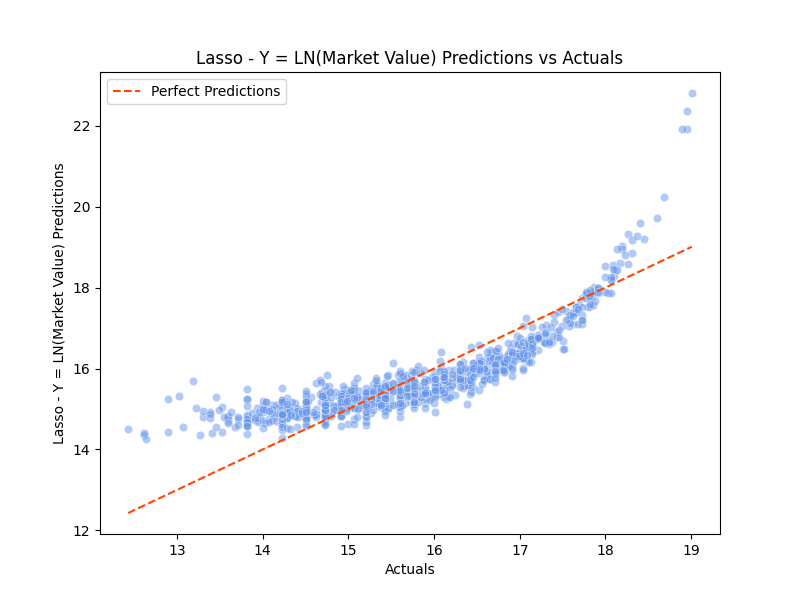
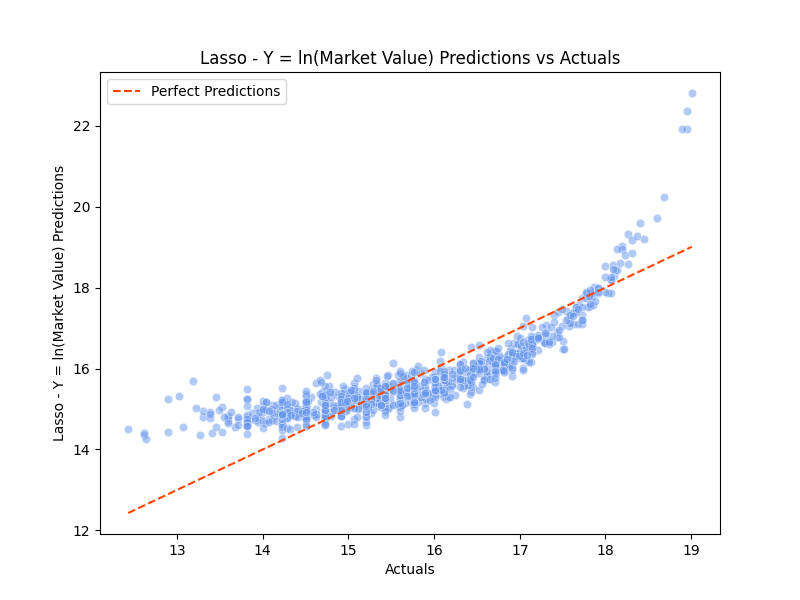
added parameter tuning to the lasso fitting function and removed dummy variables and log mkt val cols. generated visuals and logged errors.

Changed region(s): [[0.25, 0.06, 0.7812, 0.12], [0.0625, 0.27, 0.0938, 0.75]]

diff --git a/predictive_model_fitting.py b/predictive_model_fitting.py
@@ -96,10 +96,10 @@ def standardize_numeric_vars(df):
     # Create a DataFrame from the scaled data:
     scaled_df = pd.DataFrame(scaled_data, columns=df.columns[:first_dummy_loc])
 
-    # Concatenate the scaled_df with the dummy columns:
-    final_scaled_df = pd.concat([scaled_df, df.iloc[:, first_dummy_loc:]], axis=1)
+    # # Concatenate the scaled_df with the dummy columns:
+    # final_scaled_df = pd.concat([scaled_df, df.iloc[:, first_dummy_loc:]], axis=1)
 
-    return final_scaled_df
+    return scaled_df # TESTING TO SEE IF LASSO WORKS BETTER IF I EXCLUDE THE DUMMIES AND LN(MKT VALUE) COLUMN
 
 
 # Function that fits and runs a Lasso regression model:
@@ -112,22 +112,39 @@ def fit_and_run_LASSO(df, target_var, clean_y_name):
     X_train, X_test, y_train, y_test = split_data(standardized_df, target_var, test_size=.2, seed_value=42)
 
     # Initialize the Lasso model:
-    lasso_model = Lasso(alpha=0.1)
+    lasso_model = Lasso(max_iter=1000) # alpha=0.1, use this if can't tune the parameter; max_iter=1000 to avoid convergence error
+
+    # Create CV grid search space:
+    search_space = {'alpha' : [0.001, 0.01, 0.1, 1, 10]}
+
+    # Initialize GridSearchCV:
+    grid_search = GridSearchCV(lasso_model, search_space, cv=5, scoring='neg_mean_squared_error')
+
+    # Fit GridSearchCV on training data:
+    grid_search.fit(X_train, y_train)
+
+    # Get the best model after grid search:
+    best_lasso_model = grid_search.best_estimator_
+
+    # Print the parameter used:
+    print(f'\nLasso Parameter Selected: {grid_search.best_params_}\n')
 
     # Fit on training data:
-    trained_lasso = lasso_model.fit(X_train, y_train)
+    # trained_lasso = lasso_model.fit(X_train, y_train)
 
     # Extract important features:
-    selected_features = X_train.columns[trained_lasso.coef_ != 0]
+    # selected_features = X_train.columns[trained_lasso.coef_ != 0]
+    selected_features = X_train.columns[best_lasso_model.coef_ != 0]
 
     # Predict on test data:
-    pred_lasso = trained_lasso.predict(X_test)
+    # pred_lasso = trained_lasso.predict(X_test)
+    pred_lasso = best_lasso_model.predict(X_test)
 
     # Lasso performance metrics:
-    model_performance_metrics(y_test, pred_lasso, f'Lasso - Y = {clean_y_name}')
+    model_performance_metrics(y_test, pred_lasso, f'Tuned Lasso - Y = {clean_y_name}')
 
     # Predicted vs. actuals plot:
-    pred_vs_actuals_plot(y_test, pred_lasso, f'Lasso - Y = {clean_y_name}')
+    pred_vs_actuals_plot(y_test, pred_lasso, f'Tuned Lasso - Y = {clean_y_name}')
 
     # Return important lasso features for analysis:
     return selected_features
@@ -159,9 +176,14 @@ def main():
 
     # ------------ Start of Lasso regression model fitting ------------
 
-    # test the lasso fitting function:
+    # Fit and run untuned LASSO models on both outcomes:
+    # for outcome, clean_outcome in zip(['market_value_in_eur', 'log_mkt_val'], ['Market Value (euros)', 'ln(Market Value)']):    
+    #     fit_and_run_LASSO(master_df, outcome, clean_outcome)
+    #     print(f'Lasso Model with Y = {clean_outcome} - Important Features: \n{fit_and_run_LASSO(master_df, outcome, clean_outcome)}')
+
+    # Test new lasso fit function with parameter tuning:
     fit_and_run_LASSO(master_df, 'market_value_in_eur', 'Market Value (euros)')
-    fit_and_run_LASSO(master_df, 'log_mkt_val', 'LN(Market Value)')
+    print(f"Lasso Model with Y = Market Value (euros) - Important Features: \n{fit_and_run_LASSO(master_df, 'market_value_in_eur', 'Market Value (euros)')}")
 
 
 if __name__ == "__main__":
